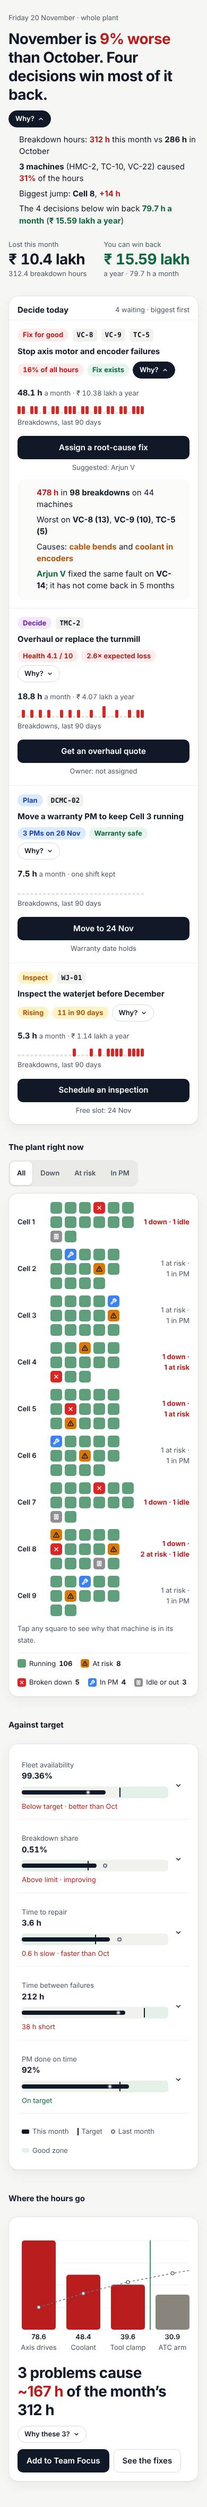
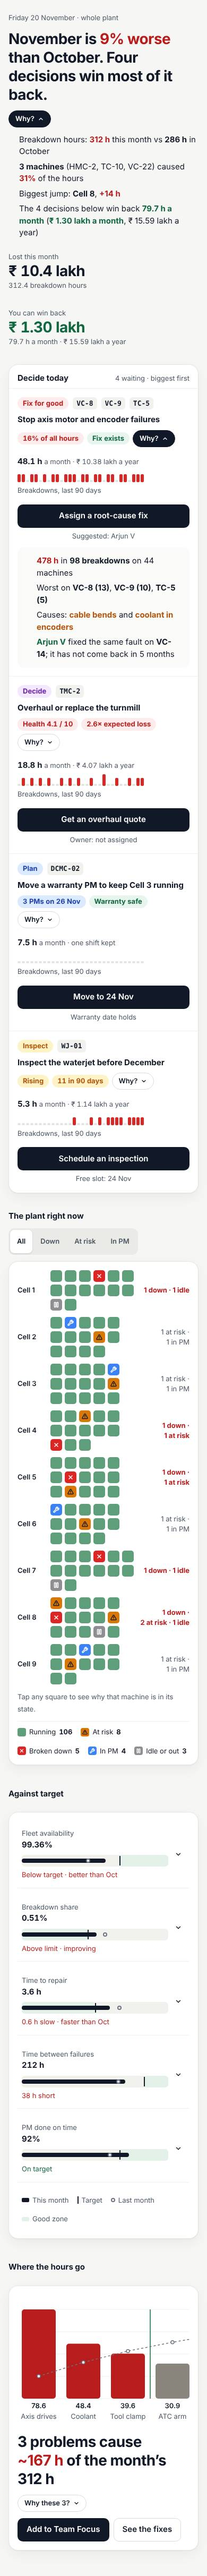
v2: win-back figure in rupees a month beside the month's loss; token contrast resolves aliases
Claude-Session: https://claude.ai/code/session_01KEBF26istx9ETY2T7Vyzc3

Changed region(s): [[0.0308, 0.0, 0.9231, 0.9962], [0.7077, 0.4981, 0.9231, 0.6537], [0.7385, 0.9028, 0.9231, 0.9651]]

diff --git a/apps/web/src/ui/v2/v2.test.ts b/apps/web/src/ui/v2/v2.test.ts
@@ -5,7 +5,7 @@ import { renderToStaticMarkup } from 'react-dom/server';
 import { describe, expect, it } from 'vitest';
 import { Dashboard } from '../../screens/v2/dashboard/Dashboard.js';
 import { dashboardFixture as model } from '../../screens/v2/dashboard/fixture.js';
-import { ratio, readTokens } from '../contrast.js';
+import { ratio, readTokens, resolve } from '../contrast.js';
 import { BulletBar, place } from './bullet-bar.js';
 import { DecisionRow } from './domain/decision-row.js';
 import { nextTile } from './domain/plant.js';
@@ -201,7 +201,8 @@ describe('v2 fixture figures agree with each other', () => {
       0,
     );
     expect(plain(winBack.note)).toContain(`${hours.toFixed(1)} h a month`);
-    expect(num(winBack.value)).toBeCloseTo(lakh, 2);
+    expect(plain(winBack.note)).toContain(`₹ ${lakh.toFixed(2)} lakh a year`);
+    expect(num(winBack.value)).toBeCloseTo(lakh / 12, 2);
   });
 
   it('shares out the month’s breakdown hours across the Pareto bars, and the rest is smaller than the top', () => {
@@ -243,9 +244,14 @@ describe('v2 tokens', () => {
     min: number,
   ) =>
     list
-      .map(([fg, bg]) => [fg, bg, ratio(tokens[v2(fg)]!, tokens[v2(bg)]!)] as const)
+      .map(([fg, bg]) => [fg, bg, ratio(resolve(tokens, v2(fg)), resolve(tokens, v2(bg)))] as const)
       .filter(([, , r]) => r < min)
       .map(([fg, bg, r]) => `${fg} on ${bg}: ${r.toFixed(2)}`);
+
+  it('checks the real colour behind an alias, and refuses one that is not a colour', () => {
+    expect(resolve({ a: 'var(--b)', b: '#ffffff' }, 'a')).toBe('#ffffff');
+    expect(() => resolve({ a: 'var(--missing)' }, 'a')).toThrow(/not a hex colour/);
+  });
 
   for (const [name, tokens] of Object.entries(readTokens(css))) {
     it(`reads every v2 text at 4.5:1 or better on its background in ${name}`, () => {

diff --git a/apps/web/src/screens/v2/dashboard/fixture.ts b/apps/web/src/screens/v2/dashboard/fixture.ts
@@ -78,14 +78,14 @@ export const dashboardFixture: DashboardModel = {
       'Breakdown hours: !!312 h!! this month vs **286 h** in October',
       '**3 machines** (HMC-2, TC-10, VC-22) caused !!31%!! of the hours',
       'Biggest jump: **Cell 8**, !!+14 h!!',
-      'The 4 decisions below win back ++79.7 h a month++ (++₹ 15.59 lakh a year++)',
+      'The 4 decisions below win back ++79.7 h a month++ (++₹ 1.30 lakh a month++, ₹ 15.59 lakh a year)',
     ),
     figures: [
       { label: 'Lost this month', value: glue('₹ 10.4 lakh'), note: glue('312.4 breakdown hours') },
       {
         label: 'You can win back',
-        value: glue('₹ 15.59 lakh'),
-        note: glue('a year · 79.7 h a month'),
+        value: glue('₹ 1.30 lakh'),
+        note: glue('79.7 h a month · ₹ 15.59 lakh a year'),
         tone: 'gain',
       },
     ],

diff --git a/apps/web/src/ui/contrast.ts b/apps/web/src/ui/contrast.ts
@@ -31,3 +31,12 @@ export function ratio(a: string, b: string): number {
   const [hi, lo] = [luminance(a), luminance(b)].sort((x, y) => y - x);
   return (hi! + 0.05) / (lo! + 0.05);
 }
+
+/** A token's real colour: follows `var(--…)` aliases (a few hops at most) and fails loudly on anything not hex. */
+export function resolve(tokens: Tokens, name: string): string {
+  let value = tokens[name];
+  for (let hops = 0; value?.startsWith('var(--') && hops < 4; hops++)
+    value = tokens[value.slice(6, -1)];
+  if (!value || !/^#[0-9a-f]{6}$/i.test(value)) throw new Error(`${name} is not a hex colour`);
+  return value;
+}
